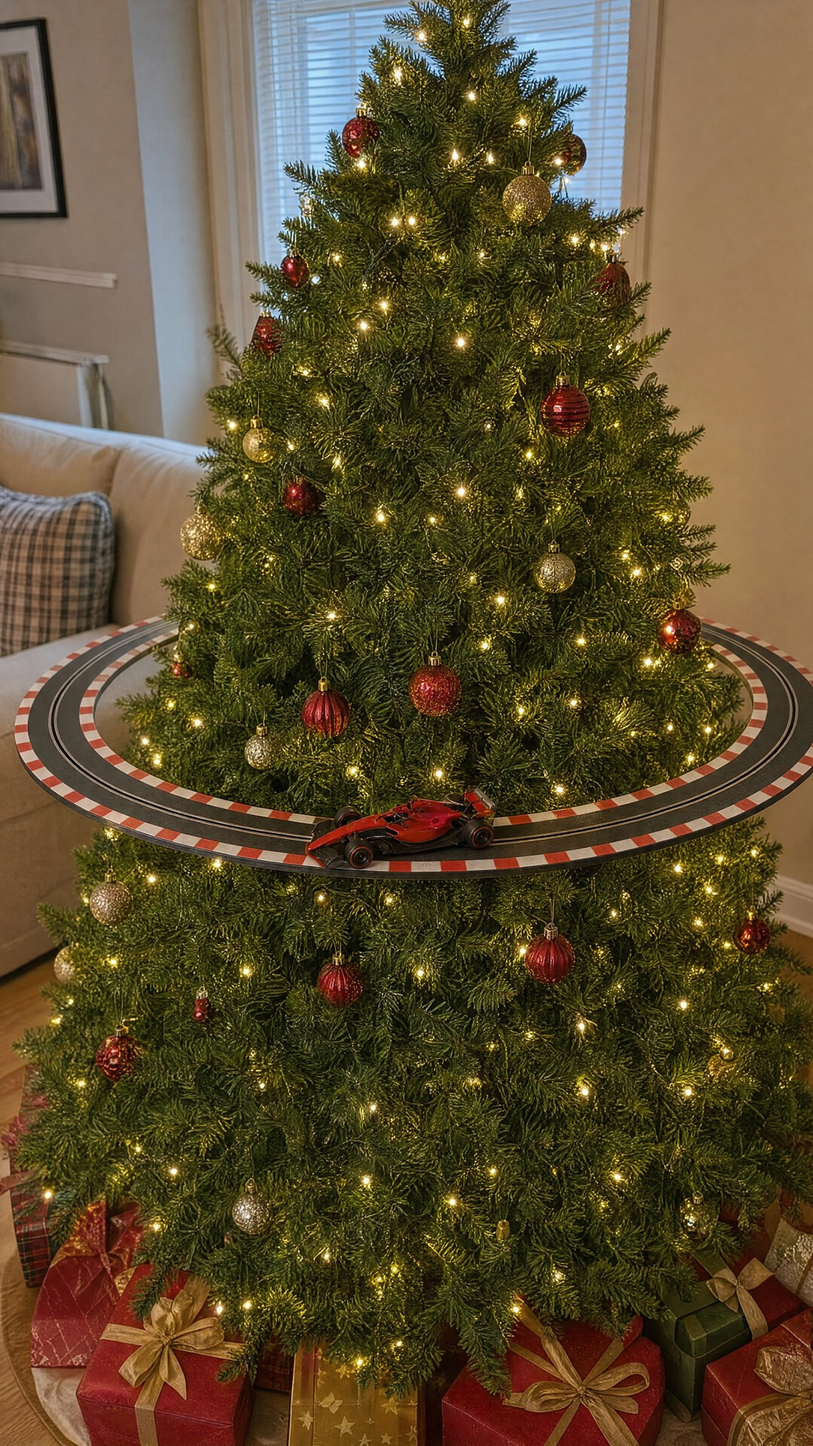
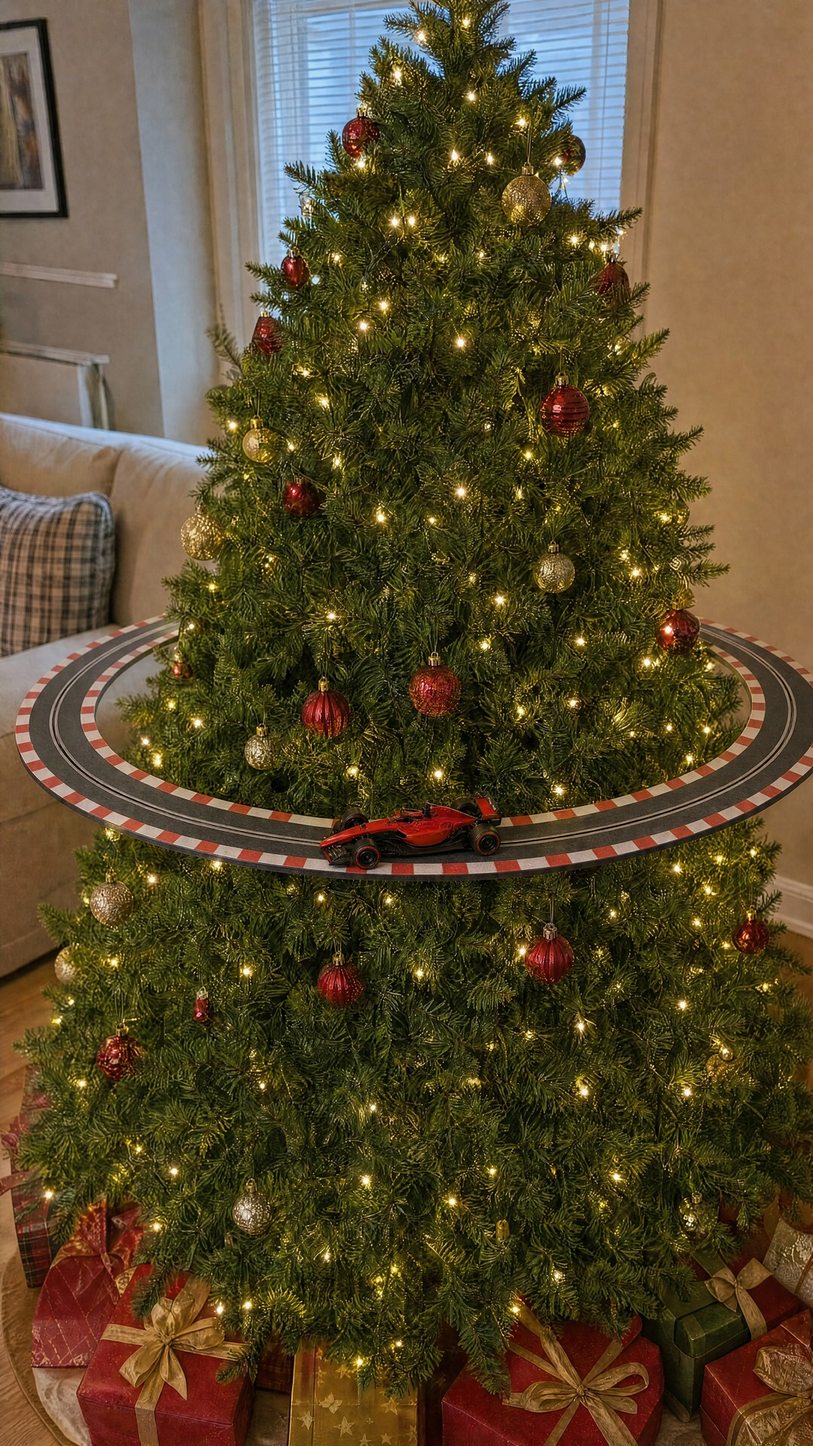
F1 Tree Racer: masina centrata pe sant in pozele 1, 2, 5
Claude-Session: https://claude.ai/code/session_0182QBD7L6o3B4fpDgewD35i

diff --git a/products/f1-tree-racer.md b/products/f1-tree-racer.md
@@ -74,11 +74,11 @@ Metoda care merge: randez eu geometria exactă (ghid-0.png / ghid-35.png, încă
 ## 23 oct — DECIZIE FINALĂ Szasz: UN SINGUR CERC (folder `cerc/` = sursa de adevăr)
 Cerc Ø110 cm la ~70 cm de la podea, 12 bucăți de 30°, bandă 10 cm, 1 colier + 6 brațe, 1 mașină, 1 mâner. Fișa furnizor actualizată.
 Făcut din randarea exactă `render_cerc.py` (cerc-intreg bfda5818 / cerc-aproape 731fe882).
-| 1 brad cu cercul | 180d6df0-097d-4c43-8ef6-749e33e784e5 |
-| 2 cerc aproape | 468225f3-6f2c-47db-859a-833769d82280 |
+| 1 brad cu cercul | 9a60026b-843b-4ebd-81c4-578fa0c32a8b (mașina centrată; vechi 180d6df0) |
+| 2 cerc aproape | bee6a0a9-d6d5-4380-960b-8345444e1a4b (mașina centrată; vechi 468225f3) |
 | 3 ce e în cutie | 17630469-9f09-4202-bf3a-17b4c65cf1a5 |
 | 4 dedesubt | 786d3045-8ab5-4450-9950-74ffb04fb86c |
-| 5 curent + mâner | 7f2cd52a-3ca7-4be1-b8a3-10394b379319 |
+| 5 curent + mâner | d5a295ab-c68d-4f89-87a7-3693a3ec6c3d (mașina centrată; vechi 7f2cd52a) |
 | 6 cutia | c4605339-6346-43bd-8cc2-ccd10f7cc489 |
 Variantele cu 2 cercuri / spirală (set/, schema_traseu.py) = abandonate.
 
